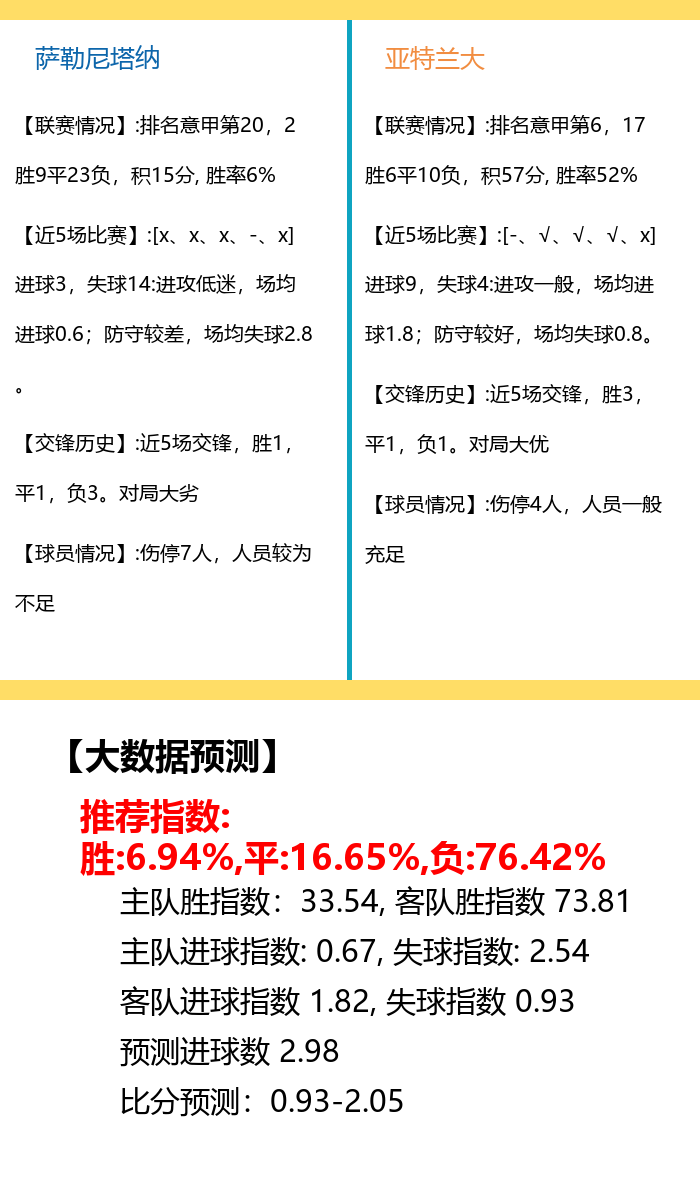
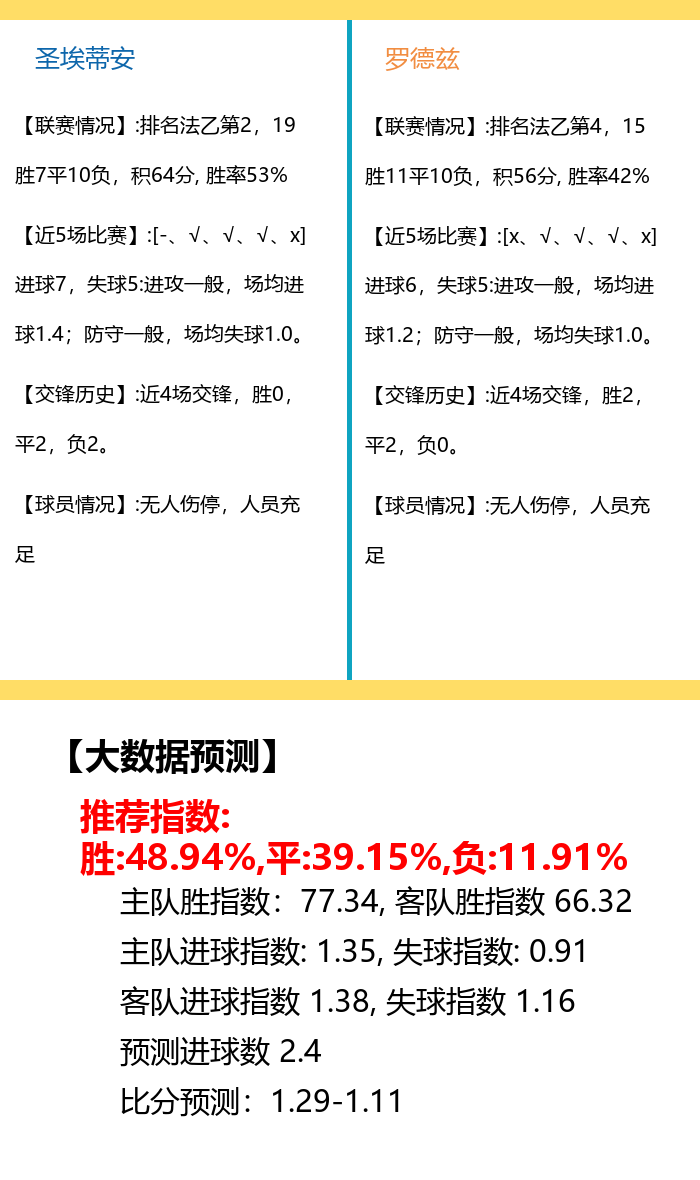
feat: 图片拼接

diff --git a/draw3.py b/draw3.py
@@ -19,7 +19,7 @@ class Poster():
 
         # 创建海报三部分
         # 1. 比赛标题、球队图标、基本元素
-        self.game_title_background = Image.new("RGBA", (700, 500), self.background_color)
+        self.game_title_background = Image.new("RGBA", (700, 250), self.background_color)
         # 2. 分析
         self.game_anlay_background = Image.new("RGBA", (700, 1180), self.background_color)
         # 3. 预测推荐
@@ -45,9 +45,9 @@ class Poster():
         if team_icon_image.mode != "RGBA":
             team_icon_image = team_icon_image.convert("RGBA")
 
-        team_icon_image = team_icon_image.resize((200, 200))
+        team_icon_image = team_icon_image.resize((150, 150))
         icon_x = (self.width // 2 - team_icon_image.width) // 2
-        icon_y = (self.game_title_background.height // 2 - team_icon_image.height) // 2 +100
+        icon_y = (self.game_title_background.height // 2 - team_icon_image.height) // 2 + 20
         if team_type == "home":
             self.game_title_background.alpha_composite(team_icon_image, (icon_x - 50, icon_y))
         else:
@@ -56,7 +56,7 @@ class Poster():
     def draw_match_name(self):
 
         # 添加队名和比赛信息
-        font = ImageFont.truetype("msyhbd.ttc", 40)
+        font = ImageFont.truetype("msyhbd.ttc", 45)
         # textsize 是 pillow 9.5.0 版本才有
         # textsize is deprecated and will be removed in Pillow 10 (2023-07-01). Use textbbox or textlength instead.
         text_width, text_height = self.game_title_draw.textsize(self.match_name, font=font)
@@ -66,10 +66,10 @@ class Poster():
         x = (self.width - text_width) // 2
         y = (self.game_title_background.height - text_height) // 2
         #
-        self.game_title_draw.text((x, 150), self.match_name, font=font, fill=(0, 0, 0))
+        self.game_title_draw.text((x, 10), self.match_name, font=font, fill=(0, 0, 0))
 
     def draw_match_team_name(self):
-        font = ImageFont.truetype("msyhbd.ttc", 50)
+        font = ImageFont.truetype("msyhbd.ttc", 40)
         # textsize 是 pillow 9.5.0 版本才有
         # textsize is deprecated and will be removed in Pillow 10 (2023-07-01). Use textbbox or textlength instead.
 
@@ -83,17 +83,17 @@ class Poster():
         x = (self.width - text_width) // 2
         y = (self.game_title_background.height - text_height) // 2
         #
-        self.game_title_draw.text((x, 210), match_vs_text, font=font, fill=(0, 0, 0))
+        self.game_title_draw.text((x, 80), match_vs_text, font=font, fill=(0, 0, 0))
 
         # 绘制队名在图片下方
         name_font = ImageFont.truetype("msyhbd.ttc", 20)
         text_width, text_height = self.game_title_draw.textsize(self.team1_name, font=name_font)
         name_x = (self.width // 2 - text_width) // 2
-        self.game_title_draw.text((name_x - 50, 350), self.team1_name, font=name_font, fill=(0, 0, 0))
+        self.game_title_draw.text((name_x - 50, 200), self.team1_name, font=name_font, fill=(0, 0, 0))
 
         text_width, text_height = self.game_title_draw.textsize(self.team2_name, font=name_font)
         name_x = (self.width // 2 - text_width) // 2
-        self.game_title_draw.text((name_x + self.width // 2 + 50, 350), self.team2_name, font=name_font, fill=(0, 0, 0))
+        self.game_title_draw.text((name_x + self.width // 2 + 50, 200), self.team2_name, font=name_font, fill=(0, 0, 0))
 
         # x_separate_image = Image.new("RGBA", (self.width, 20), (255, 221, 102))
         # self.game_title_background.paste(x_separate_image, (0, 480), x_separate_image)
@@ -107,7 +107,7 @@ class Poster():
         # # 计算文本的位置
         x = (self.width - text_width) // 2
         y = (self.game_title_background.height - text_height) // 2
-        self.game_title_draw.text((x, 280), self.match_time, font=font, fill=(255, 17, 17))
+        self.game_title_draw.text((x, 150), self.match_time, font=font, fill=(255, 17, 17))
 
     def draw_separate(self):
         # 绘制分隔符
@@ -119,7 +119,7 @@ class Poster():
         self.game_anlay_background.paste(y_separate_image, ((self.width - y_separate_image.width) // 2, 20),
                                          y_separate_image)
 
-    def draw_long_message(self, long_text, font, begin_y, x_side,fill = (0,0,0)):
+    def draw_long_message(self, long_text, font, begin_y, x_side, fill=(0, 0, 0)):
         def wrap_text(max_width):
             """
             根据给定的最大宽度将文本分割成多行。
@@ -176,9 +176,9 @@ class Poster():
         """
         name_font = ImageFont.truetype("msyh.ttc", 25)
         name_text = team_message["name"]
-        name_color = (0,0,0)
+        name_color = (0, 0, 0)
         if team_type == "home":
-            name_color = (13,102,171)
+            name_color = (13, 102, 171)
         else:
             name_color = (241, 141, 65)
         font = ImageFont.truetype("msyh.ttc", 20)  # 微软雅黑 20号字体
@@ -194,7 +194,7 @@ class Poster():
             x_side = 365
         y_side = 10  # 上边间隔
         begin_y = 40
-        begin_y = self.draw_long_message(name_text, name_font, begin_y, x_side+20,name_color) + y_side
+        begin_y = self.draw_long_message(name_text, name_font, begin_y, x_side + 20, name_color) + y_side
         begin_y = self.draw_long_message(league_text, font, begin_y, x_side) + y_side
         begin_y = self.draw_long_message(recent_match_text, font, begin_y, x_side) + y_side
         begin_y = self.draw_long_message(recent_comp_text, font, begin_y, x_side) + y_side
@@ -208,7 +208,9 @@ class Poster():
         title_font = ImageFont.truetype("msyhbd.ttc", 35)
         content_font = ImageFont.truetype("msyh.ttc", 30)  # 微软雅黑 20号字体
         predict_title_text = "【大数据预测】"
-        predict_index_text = "推荐指数:\n胜:{}%,平:{}%,负:{}%".format(pre_info["win_advice_index"],pre_info["draw_advice_index"],pre_info["loss_advice_index"])
+        predict_index_text = "推荐指数:\n胜:{}%,平:{}%,负:{}%".format(pre_info["win_advice_index"],
+                                                                      pre_info["draw_advice_index"],
+                                                                      pre_info["loss_advice_index"])
         team_predict_text = "主队胜指数：{}, 客队胜指数 {}".format(pre_info["home_win_index"],
                                                                   pre_info["away_win_index"])
         home_team_text = "主队进球指数: {}, 失球指数: {}".format(pre_info["home_attack_index"],
@@ -217,7 +219,6 @@ class Poster():
                                                                pre_info["away_lose_index"])
         predict_goal_number_text = "预测进球数 {}".format(pre_info["all_goal_index"])
         predict_goal_text = "比分预测：{}-{}".format(pre_info["home_goal"], pre_info["away_goal"])
-
 
         x_side = 50  # 侧边间隔
 
@@ -228,7 +229,7 @@ class Poster():
         begin_y = begin_y + 60
         x_side = 120
         self.game_anlay_draw.text((80, begin_y), text=predict_index_text, font=title_font, fill=(255, 0, 0))
-        begin_y = begin_y + y_side+40
+        begin_y = begin_y + y_side + 40
         self.game_anlay_draw.text((x_side, begin_y), text=team_predict_text, font=content_font, fill=(0, 0, 0))
         begin_y = begin_y + y_side
         self.game_anlay_draw.text((x_side, begin_y), text=home_team_text, font=content_font, fill=(0, 0, 0))
@@ -238,7 +239,6 @@ class Poster():
         self.game_anlay_draw.text((x_side, begin_y), text=predict_goal_number_text, font=content_font, fill=(0, 0, 0))
         begin_y = begin_y + y_side
         self.game_anlay_draw.text((x_side, begin_y), text=predict_goal_text, font=content_font, fill=(0, 0, 0))
-
 
     def draw_author_predict(self, author_info: dict):
         title_font = ImageFont.truetype("msyhbd.ttc", 35)
@@ -271,11 +271,24 @@ class Poster():
         self.draw_team_message(com_info["away_team"], "away")  # 绘制球队信息
         self.draw_algorithm_predict(pre_info)
         self.draw_author_predict(author_info)
-        self.game_title_background.save("1111.png")
-        self.game_anlay_background.save("2222.png")
-        self.game_predict_background.save("3333.png")
-        # self.game_title_background.show()
-        self.game_anlay_background.show()
+        # self.game_title_background.save("1111.png")
+        # self.game_anlay_background.save("2222.png")
+        # self.game_predict_background.save("3333.png")
+
+        # 计算新图片的高度（两张图片的高度之和）
+        new_height = self.game_title_background.height + self.game_anlay_background.height + self.game_predict_background.height
+        # 宽度保持不变（取第一张图片的宽度）
+        new_width = self.game_title_background.width
+
+        # 创建一个新的空白图片，大小为(new_width, new_height)
+        new_img = Image.new('RGB', (new_width, new_height))
+        # 将两张图片粘贴到新图片上
+        new_img.paste(self.game_title_background, (0, 0))  # 粘贴第一张图片到(0, 0)位置
+        new_img.paste(self.game_anlay_background, (0, self.game_title_background.height))  # 粘贴第二张图片到(0, img1.height)位置
+        new_img.paste(self.game_predict_background,
+                      (0, self.game_title_background.height + self.game_anlay_background.height))
+        # 保存新图片
+        new_img.save('0000.png')
+        new_img.show()
+        # self.game_anlay_background.show()
         # self.game_predict_background.show()
-
-
